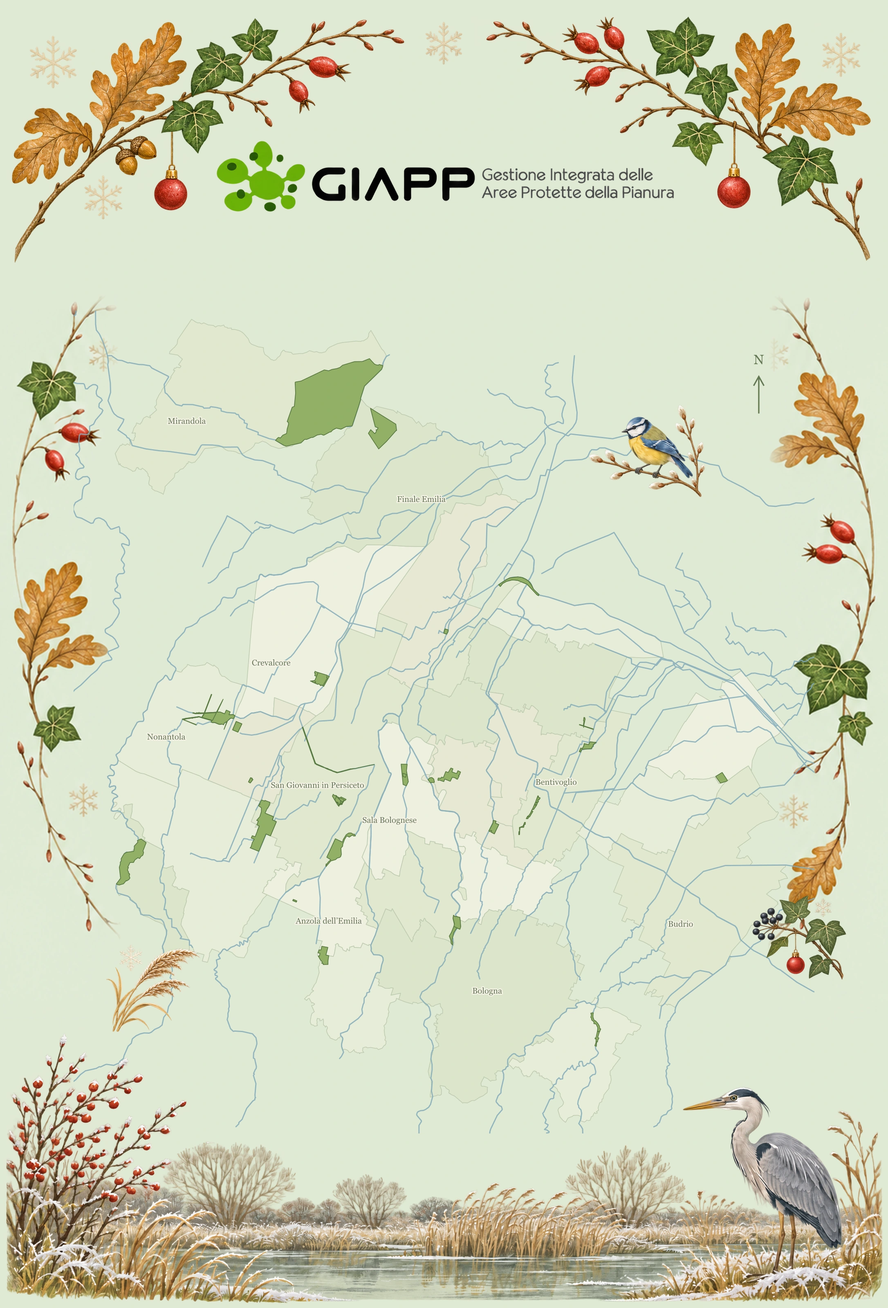
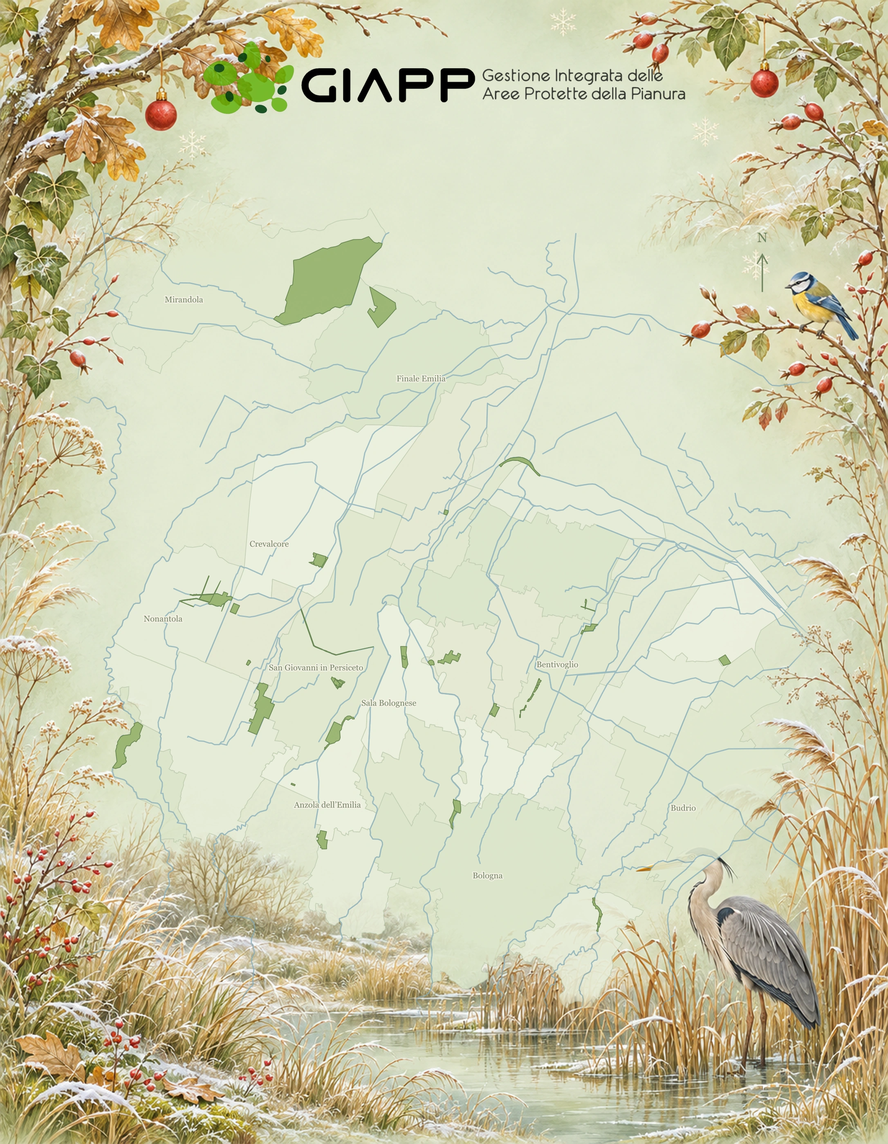
mappa

diff --git a/assets/js/calendar-map.js b/assets/js/calendar-map.js
@@ -5,6 +5,54 @@
   const viewport = calendar.querySelector('[data-map-viewport]');
   const stage = calendar.querySelector('[data-map-stage]');
   const markers = [...calendar.querySelectorAll('[data-map-day]')];
+
+  // Distribute forms by geographic distance, independently of the fixed day numbers.
+  const types = ['farnia', 'acero', 'pioppo', 'edera', 'agrifoglio'];
+  const points = markers.map(marker => ({x: parseFloat(marker.style.left) * 7.2, y: parseFloat(marker.style.top) * 8}));
+  const shuffle = values => {
+    const result = [...values];
+    for (let i = result.length - 1; i > 0; i--) {
+      const j = Math.floor(Math.random() * (i + 1));
+      [result[i], result[j]] = [result[j], result[i]];
+    }
+    return result;
+  };
+  const distances = points.map(a => points.map(b => Math.hypot(a.x - b.x, a.y - b.y)));
+  const neighbors = distances.map((row, i) => row.map((d, j) => ({d,j})).filter(v => v.j !== i).sort((a,b) => a.d-b.d).slice(0,2).map(v => v.j));
+  const southern = points.map((p,i) => ({y:p.y,i})).sort((a,b) => b.y-a.y).slice(0,3).map(p => p.i);
+  const isGreen = type => type === 'edera' || type === 'agrifoglio';
+  function score(order) {
+    let result = 0;
+    order.forEach((type,i) => {
+      for (let j=i+1;j<order.length;j++) {
+        const distance = Math.max(25,distances[i][j]);
+        if (type === order[j]) result += (neighbors[i].includes(j) || neighbors[j].includes(i) ? 500 : 0) + (150/distance)**3;
+        if (isGreen(type) && isGreen(order[j])) result += .3*(110/distance)**2;
+      }
+    });
+    if (southern.length === 3 && southern.every(i => isGreen(order[i]))) result += 25;
+    return result;
+  }
+  const palette = shuffle(types);
+  const pool = markers.map((_,i) => palette[i%palette.length]);
+  let best = shuffle(pool), bestScore = score(best);
+  for (let restart=0;restart<8;restart++) {
+    let order = shuffle(pool), current = score(order);
+    for (let attempt=0;attempt<700;attempt++) {
+      const i=Math.floor(Math.random()*order.length),j=Math.floor(Math.random()*order.length);
+      if (i===j || order[i]===order[j]) continue;
+      [order[i],order[j]]=[order[j],order[i]];
+      const next=score(order);
+      if (next<current) current=next;
+      else [order[i],order[j]]=[order[j],order[i]];
+    }
+    if (current<bestScore) {best=order;bestScore=current;}
+  }
+  markers.forEach((marker,i) => {
+    types.forEach(type => marker.classList.remove(`calendar-leaf--${type}`));
+    marker.classList.add(`calendar-leaf--${best[i]}`);
+    marker.querySelector('img').src = `${calendar.dataset.leafBase}foglia-${best[i]}.png`;
+  });
   const markerCenter = marker => {
     const rect = marker.getBoundingClientRect();
     const poster = stage.getBoundingClientRect();

diff --git a/index2.html b/index2.html
@@ -4,7 +4,7 @@ title: Il calendario sulla mappa — Natura di Pianura
 description: Ventiquattro giorni per esplorare le aree della rete GIAPP.
 ---
 {% assign poster = site.data.map_poster %}
-<section class="map-calendar map-calendar--poster" data-map-calendar data-marker-style="leaves" aria-label="I 24 giorni sulle aree GIAPP" style="--map-leaf-size: {{ poster.marker_size }}%">
+<section class="map-calendar map-calendar--poster" data-map-calendar data-marker-style="leaves" data-leaf-base="{{ '/images/' | relative_url }}" aria-label="I 24 giorni sulle aree GIAPP" style="--map-leaf-size: {{ poster.marker_size }}%">
   <div class="map-calendar__toolbar">
     <div class="map-calendar__styles" role="group" aria-label="Aspetto dei giorni">
       <button type="button" data-map-style="leaves" aria-pressed="true">Foglie</button>

diff --git a/scripts/build-map.py b/scripts/build-map.py
@@ -129,6 +129,9 @@ for step in range(500):
         a['y']+=movement[i][1]+(a['anchor_y']-a['y'])*.012
         a['x']=max(272,min(934,a['x']));a['y']=max(49,min(788,a['y']))
 
+# Keep day 7 inside the Valli mirandolesi polygon, clear of the introduction above it.
+next(a for a in records if a['day']==7).update(x=487,y=117)
+
 for a in records:
     a['left']=round((a['x']-245)/720*100,3);a['top']=round((a['y']-20)/800*100,3)
     a['line_x']=round(a['x']-245,2);a['line_y']=round(a['y']-20,2)
